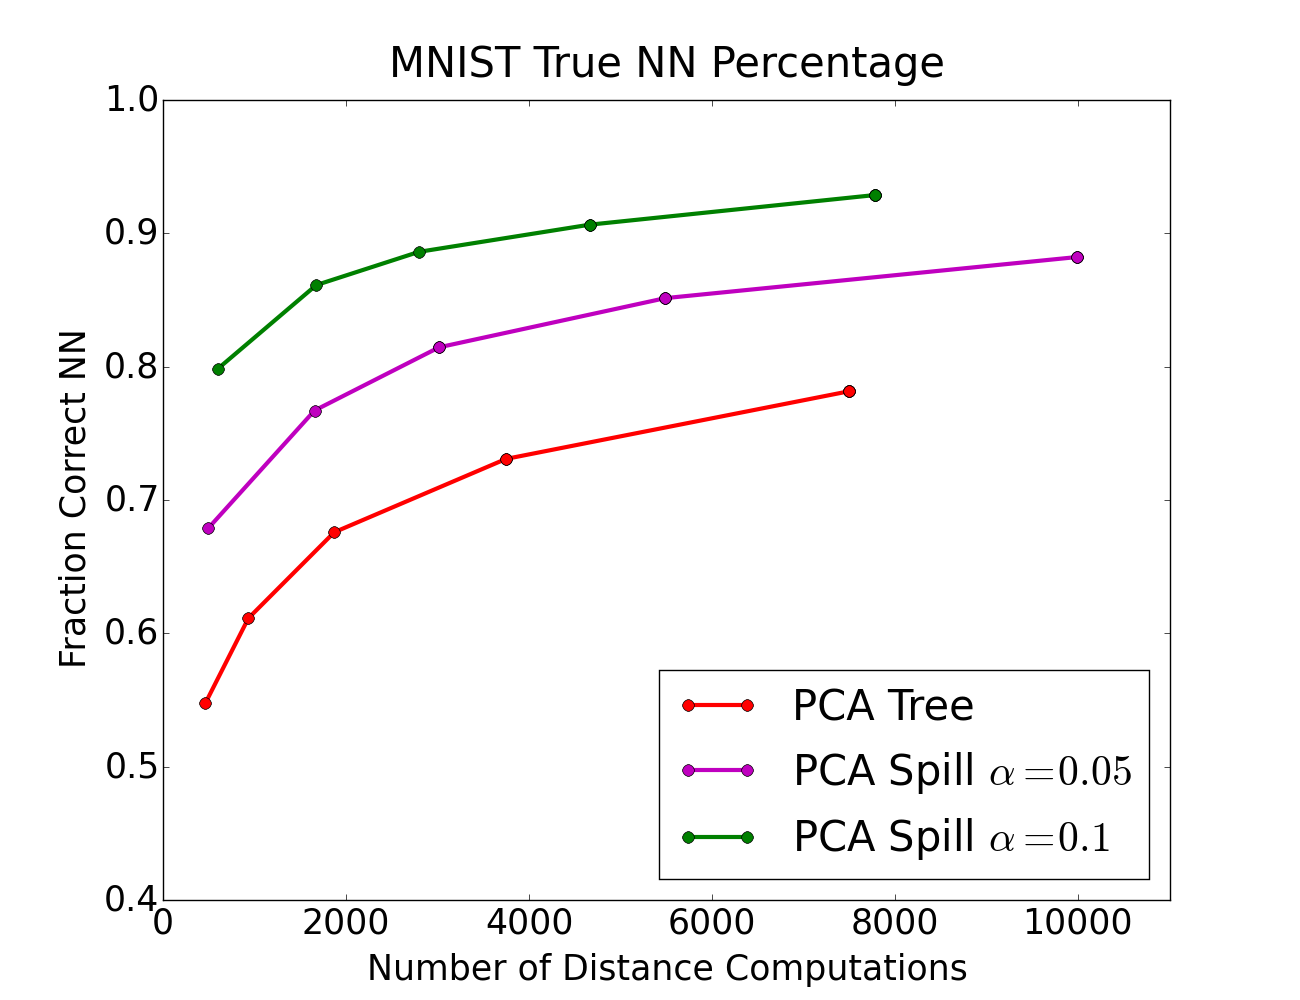
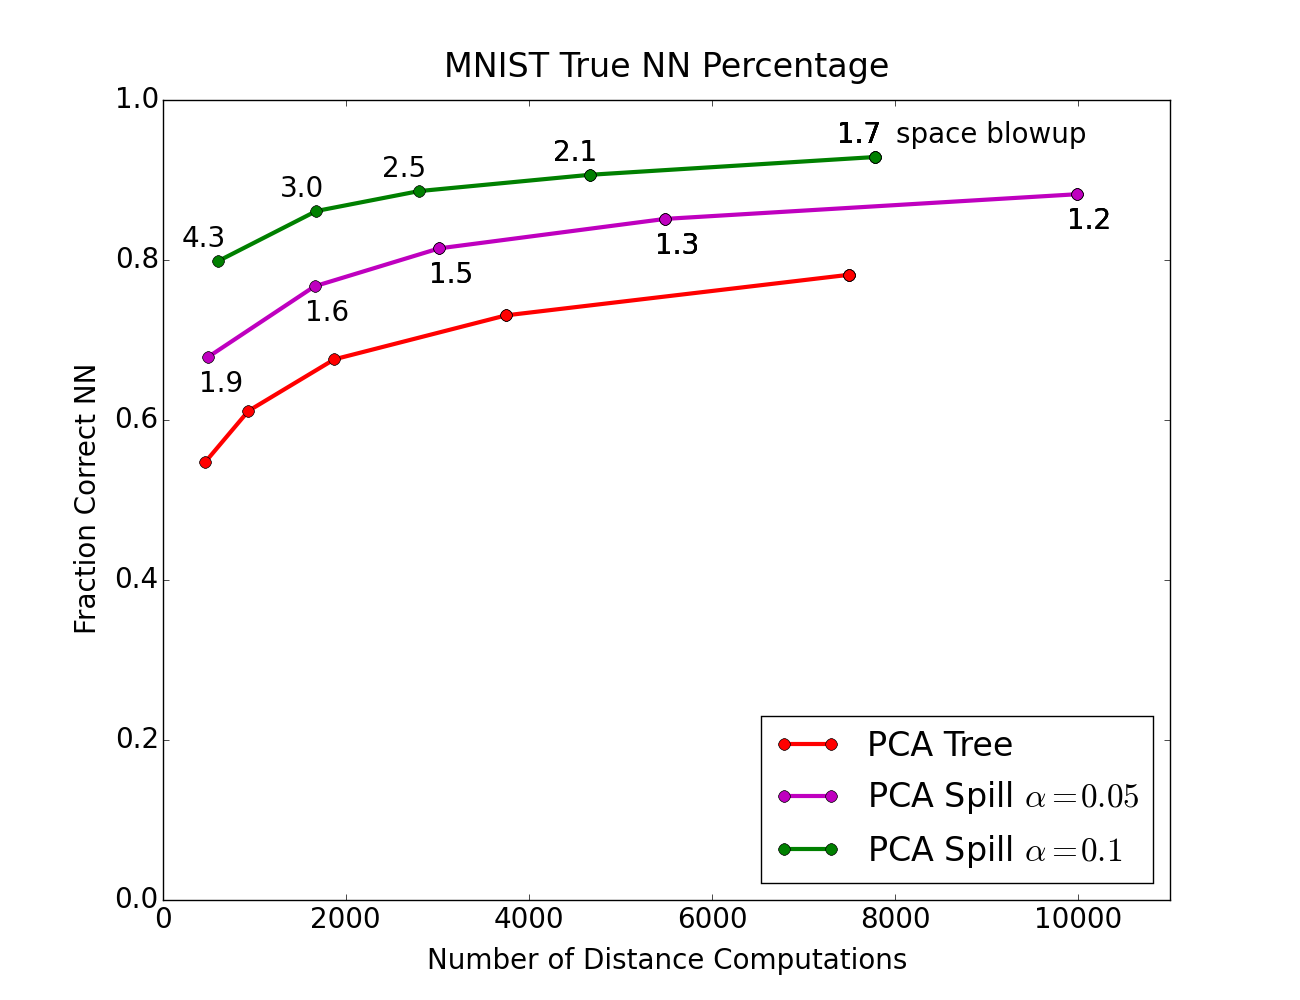
updated spill images and data

diff --git a/output_data/pyplot.py b/output_data/pyplot.py
@@ -9,6 +9,14 @@ def read_file(dataset, x_index, y_index, filename):
 		y = [float(i[y_index]) for i in file_lines]
 	return x, y
 
+def read_file_label(dataset, x_index, y_index, l_index, filename):
+	with open('{0}/true_nn_accuracy/{1}'.format(dataset,filename)) as f:
+		file_lines = [[i for i in line.split()] for line in f][1:]
+		x = [float(i[x_index]) for i in file_lines]
+		y = [float(i[y_index]) for i in file_lines]
+		l = [round(float(i[l_index]),1) for i in file_lines]
+	return x, y, l
+
 def read_partial_file(dataset, x_index, y_index, start, end, skip, filename):
 	with open('{0}/true_nn_accuracy/{1}'.format(dataset,filename)) as f:
 		file_lines = [[i for i in line.split()] for line in f][1:]
@@ -16,12 +24,12 @@ def read_partial_file(dataset, x_index, y_index, start, end, skip, filename):
 		y = [float(i[y_index]) for i in file_lines[start:end:skip]]
 	return x, y
 
-def read_partial_file_w_label(dataset, x_index, y_index, label_index, start, end, skip, filename):
+def read_partial_file_w_label(dataset, x_index, y_index, l_index, start, end, filename):
 	with open('{0}/true_nn_accuracy/{1}'.format(dataset,filename)) as f:
 		file_lines = [[i for i in line.split()] for line in f][1:]
-		x = [float(i[x_index]) for i in file_lines[start:end:skip]]
-		y = [float(i[y_index]) for i in file_lines[start:end:skip]]
-		labels = [float(i[label_index]) for i in file_lines[start:end:skip]]
+		x = [float(i[x_index]) for i in file_lines[start:end]]
+		y = [float(i[y_index]) for i in file_lines[start:end]]
+		labels = [round(float(i[l_index]),1) for i in file_lines[start:end]]
 	return x, y, labels
 
 def label_points(x_index, y_index, x_off, y_off, labels):
@@ -29,9 +37,9 @@ def label_points(x_index, y_index, x_off, y_off, labels):
 		plt.annotate(labels[i],
 					 xy=(x_index[i],y_index[i]), 
 					 xytext=(x_off, y_off), 
-					 textcoords='offset points', 
-					 arrowprops=dict(arrowstyle="->",
-					 connectionstyle="arc,rad=10"))
+					 textcoords='offset points')
+					 #arrowprops=dict(arrowstyle="->",
+					 #connectionstyle="arc,rad=10"))
 
 def kd(dataset, xran, yran, legend_loc):
 	plt.axis([0,xran,0,yran])
@@ -157,14 +165,15 @@ def kd_pca_rkd_rp_v2(dataset, xran, yran, legend_loc):
 def kd_spill(dataset, xran, yran, legend_loc):
 	plt.axis([0,xran,0,yran])
 	kd_x, kd_y = read_file(dataset,3,2,'kd_tree.dat')
-	spill05_x, spill05_y, spill05_label = read_partial_file_w_label(dataset,4,3,5,0,25,2,'kd_spill_tree.dat')
-	spill1_x, spill1_y, spill1_label = read_partial_file_w_label(dataset,4,3,5,1,25,2,'kd_spill_tree.dat')
+	spill05_x, spill05_y, spill05_label = read_file_label(dataset,4,3,5,'kd_spill_tree_0.05.dat')
+	spill1_x, spill1_y, spill1_label = read_partial_file_w_label(dataset,4,3,5,0,9,'kd_spill_tree_0.1.dat')
 	kd_line, = plt.plot(kd_x, kd_y, 'ro-', label='K-D Tree', lw=3, ms=8)
 	spill05_line, = plt.plot(spill05_x, spill05_y, 'mo-', label='K-D Spill $\\alpha=0.05$', lw=3, ms=8)
 	spill1_line, = plt.plot(spill1_x, spill1_y, 'go-', label='K-D Spill $\\alpha=0.1$', lw=3, ms=8)
-	#label_points(spill05_x, spill05_y, -30, -60, spill05_label)
-	#label_points(spill1_x, spill1_y, -50, 50, spill1_label)
+	label_points(spill05_x, spill05_y, -5, -25, spill05_label)
+	label_points(spill1_x, spill1_y, -25, 10, spill1_label)
 	plt.legend(handles=[kd_line, spill05_line, spill1_line],loc=legend_loc)
+	label_points(spill1_x[-1:], spill1_y[-1:], -25, 40, ['space blowup'])
 	figure = plt.gcf()
 	figure.set_size_inches(13, 10)
 	plt.savefig("{0}/graphs/{0}_kd_spill.png".format(dataset))
@@ -172,13 +181,15 @@ def kd_spill(dataset, xran, yran, legend_loc):
 def pca_spill(dataset, xran, yran, legend_loc):
 	plt.axis([0,xran,0,yran])
 	pca_x, pca_y = read_file(dataset, 3,2,'pca_tree.dat')
-	spill05_x, spill05_y, spill05_label = read_partial_file_w_label(dataset, 4,3,5,0,25,2,'pca_spill_tree.dat')
-	spill1_x, spill1_y, spill1_label = read_partial_file_w_label(dataset, 4,3,5,1,25,2,'pca_spill_tree.dat')
+	spill05_x, spill05_y, spill05_label = read_file_label(dataset,4,3,5,'pca_spill_tree_0.05.dat')
+	spill1_x, spill1_y, spill1_label = read_partial_file_w_label(dataset,4,3,5,0,9,'pca_spill_tree_0.1.dat')
 	pca_line, = plt.plot(pca_x, pca_y, 'ro-', label='PCA Tree', lw=3, ms=8)
 	spill05_line, = plt.plot(spill05_x, spill05_y, 'mo-', label='PCA Spill $\\alpha=0.05$', lw=3, ms=8)
 	spill1_line, = plt.plot(spill1_x, spill1_y, 'go-', label='PCA Spill $\\alpha=0.1$', lw=3, ms=8)
-	#label_points(spill05_x, spill05_y, 10, -60, spill05_label)
-	#label_points(spill1_x, spill1_y, -30, 40, spill1_label)
+	label_points(spill05_x, spill05_y, -5, -25, spill05_label)
+	label_points(spill1_x, spill1_y, -25, 10, spill1_label)
+	label_points(spill1_x[-1:], spill1_y[-1:], -25, 40, ['space blowup'])
+	figure = plt.gcf()
 	plt.legend(handles=[pca_line, spill05_line, spill1_line],loc=legend_loc)
 	figure = plt.gcf()
 	figure.set_size_inches(13, 10)
@@ -258,6 +269,33 @@ def rkd_rp_v2(dataset, xran, yran, legend_loc):
 	figure.set_size_inches(13, 10)
 	plt.savefig("{0}/graphs/{0}_rkd_rp_v2.png".format(dataset))
 
+def kd_pca_v2_spill(dataset, xran, yran, legend_loc):
+	plt.axis([0,xran,0,yran])
+	kd_x, kd_y = read_file(dataset,3,2,'kd_tree.dat')
+	pca_x, pca_y = read_file(dataset, 3,2,'pca_tree.dat')
+	spill05_x, spill05_y, spill05_label = read_file_label(dataset,4,3,5,'pca_spill_tree_0.05.dat')
+	spill1_x, spill1_y, spill1_label = read_partial_file_w_label(dataset,4,3,5,0,9,'pca_spill_tree_0.1.dat')
+	v2_x, v2_y = read_file(dataset,3,2,'2v2_tree.dat')
+	v24_x, v24_y = read_file(dataset,3,2,'4v2_tree.dat')
+	v28_x, v28_y = read_file(dataset,3,2,'8v2_tree.dat')
+
+	kd_line, = plt.plot(kd_x, kd_y, 'ro-', label='K-D Tree', lw=3, ms=8)
+	pca_line, = plt.plot(pca_x, pca_y, 'co-', label='PCA Tree', lw=3, ms=8)
+	spill05_line, = plt.plot(spill05_x, spill05_y, 'mo-', label='PCA Spill $\\alpha=0.05$', lw=3, ms=8)
+	spill1_line, = plt.plot(spill1_x, spill1_y, 'go-', label='PCA Spill $\\alpha=0.1$', lw=3, ms=8)
+	v2_line, = plt.plot(v2_x, v2_y, 'bo-', label='2 $V^2$ Trees', lw=2, ms=8)
+	v24_line, = plt.plot(v24_x, v24_y, 'bs-', label='4 $V^2$ Trees', lw=2, ms=8)
+	v28_line, = plt.plot(v28_x, v28_y, 'b^-', label='8 $V^2$ Trees', lw=2, ms=8)
+
+	label_points(spill05_x, spill05_y, -5, -25, spill05_label)
+	label_points(spill1_x, spill1_y, -25, 10, spill1_label)
+	plt.legend(handles=[kd_line, pca_line, spill05_line, spill1_line, v2_line, v24_line, v28_line],loc=legend_loc, fontsize=20)
+	label_points(spill1_x[-1:], spill1_y[-1:], -25, 40, ['space blowup'])
+
+	figure = plt.gcf()
+	figure.set_size_inches(13, 10)
+	plt.savefig("{0}/graphs/{0}_kd_pca_v2_spill.png".format(dataset))
+
 def songs():
 	font = {'size' : 18}
 	plt.rc('font', **font)
@@ -278,10 +316,11 @@ def songs():
 	#kd_pca_rkd_rp_v2(data,y_range,1,2)
 	#rp_v2(data,y_range,1,2)
 	#rkd_rp_v2(data,y_range,1,2)
-	#kd_spill(data,y_range,1,4)
+	#kd_spill(data,y_range,0.2,4)
 	#pca_spill(data,y_range,1,4)
 	#spill_vspill(data,y_range,1,4)
 	#rkd_spill_vspill(data,y_range,1,4)
+	#kd_pca_v2_spill(data,y_range,1,2)
 
 def sift():
 	font = {'size' : 20}
@@ -307,6 +346,7 @@ def sift():
 	#pca_spill(data,y_range,1,4)
 	#spill_vspill(data,y_range,1,4)
 	#rkd_spill_vspill(data,y_range,1,4)
+	#kd_pca_v2_spill(data,y_range,1,4)
 
 def cifar():
 	font = {'size' : 20}
@@ -316,7 +356,7 @@ def cifar():
 	plt.ylabel('Fraction Correct NN', labelpad = 10)
 
 	data = "cifar"
-	y_range = 7000
+	y_range = 9000
 	#kd(data,y_range,1,4)
 	#kd_pca(data,y_range,1,4)
 	#kd_pca_rkd(data,y_range,1,4)
@@ -332,6 +372,7 @@ def cifar():
 	#pca_spill(data,y_range,1,4)
 	#spill_vspill(data,y_range,1,4)
 	#rkd_spill_vspill(data,y_range,1,4)
+	#kd_pca_v2_spill(data,y_range,1,4)
 
 def big5():
 	font = {'size' : 20}
@@ -353,10 +394,11 @@ def big5():
 	#kd_pca_rkd_rp_v2(data,y_range,1,2)
 	#rp_v2(data,y_range,1,2)
 	#rkd_rp_v2(data,y_range,1,2)
-	#kd_spill(data,y_range,1,4)
+	#kd_spill(data,y_range,0.4,4)
 	#pca_spill(data,y_range,1,4)
 	#spill_vspill(data,y_range,1,4)
 	#rkd_spill_vspill(data,y_range,1,4)
+	#kd_pca_v2_spill(data,y_range,1,2)
 
 def w2v():
 	font = {'size' : 20}
@@ -378,10 +420,11 @@ def w2v():
 	#kd_pca_rkd_rp_v2(data,y_range,1,2)
 	#rp_v2(data,y_range,1,2)
 	#rkd_rp_v2(data,y_range,1,2)
-	#kd_spill(data,y_range,1,4)
-	#pca_spill(data,y_range,1,4)
+	#kd_spill(data,y_range,0.4,4)
+	#pca_spill(data,y_range,0.6,4)
 	#spill_vspill(data,y_range,1,4)
 	#rkd_spill_vspill(data,y_range,1,4)
+	#kd_pca_v2_spill(data,y_range,1,2)
 
 def mnist():
 	font = {'size' : 20}
@@ -391,7 +434,7 @@ def mnist():
 	plt.ylabel('Fraction Correct NN', labelpad = 10)
 
 	data = "mnist"
-	y_range = 8000
+	y_range = 11000
 	#kd(data,y_range,1,4)
 	#kd_pca(data,y_range,1,4)
 	#kd_pca_rkd(data,y_range,1,4)
@@ -407,6 +450,7 @@ def mnist():
 	#pca_spill(data,y_range,1,4)
 	#spill_vspill(data,y_range,1,4)
 	#rkd_spill_vspill(data,y_range,1,4)
+	#kd_pca_v2_spill(data,y_range,1,4)
 
 songs()
 
